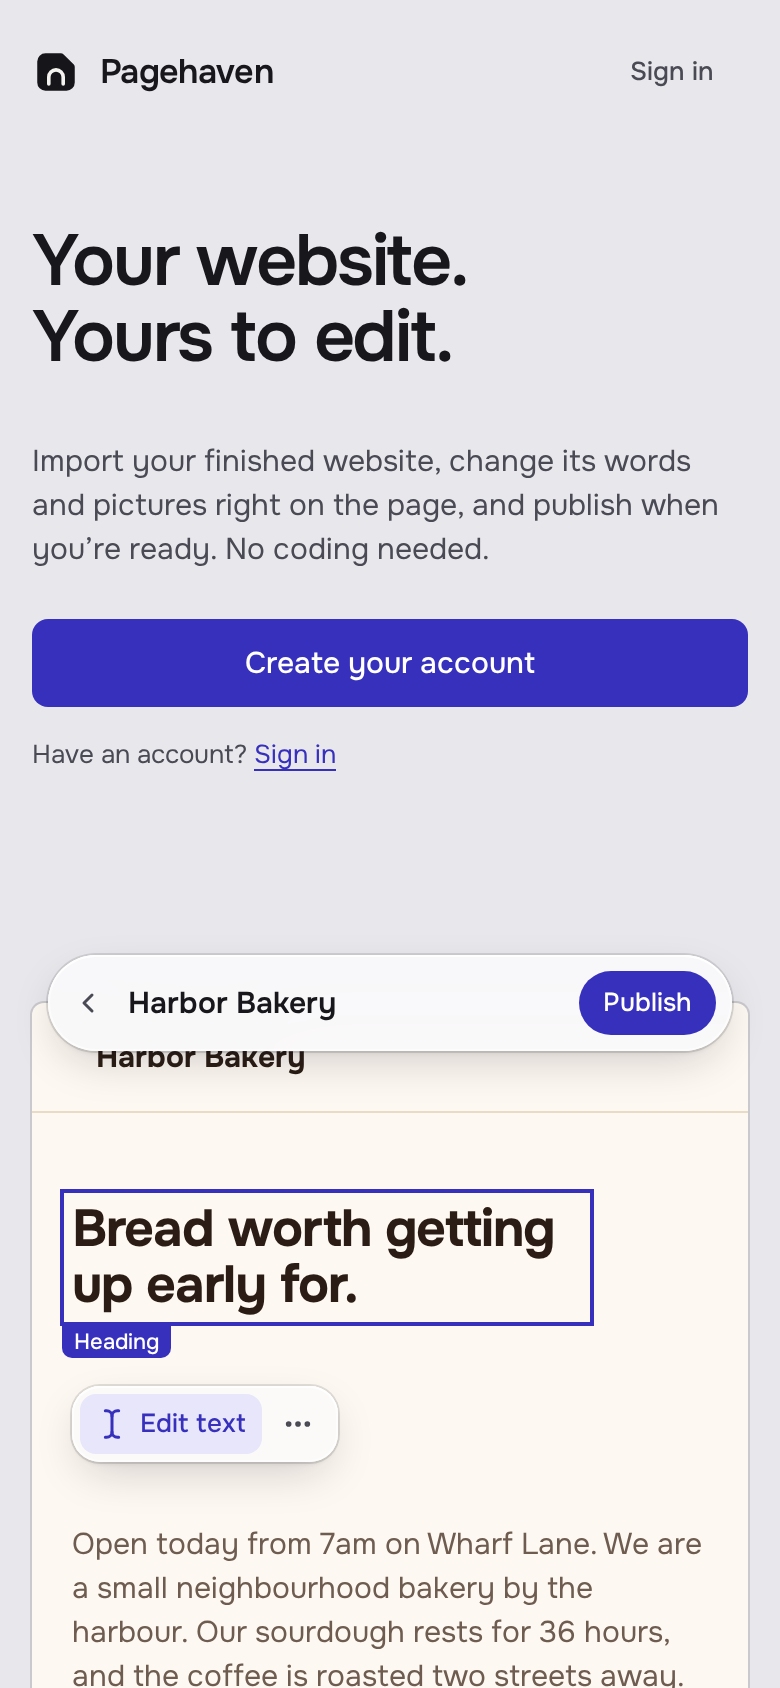
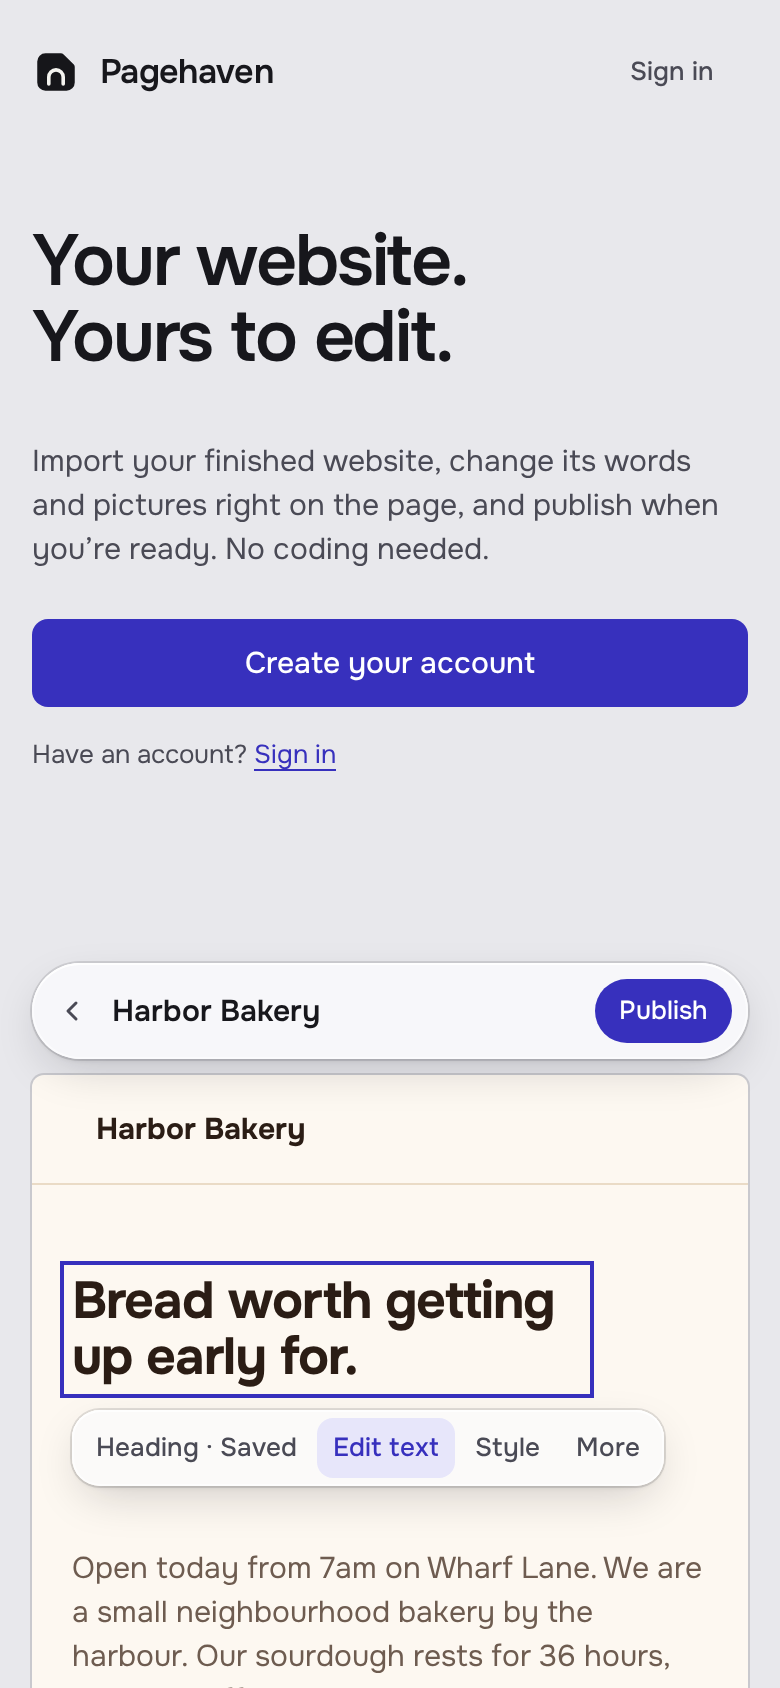
Show the built caption and band in the landing page illustration

Changed region(s): [[0.0308, 0.5545, 0.9846, 1.0]]

diff --git a/assets/static/css/screens.css b/assets/static/css/screens.css
@@ -211,12 +211,13 @@
 .home-cta p { font-size: var(--fs-control); line-height: var(--lh-control); color: var(--ink-2); }
 
 .home-proof { margin: 0; padding: var(--s7) var(--gutter) var(--s8); }
-.proof-sheet { position: relative; max-width: 1040px; margin: 0 auto; text-align: left; padding: 28px 12px 12px; }
+.proof-sheet { position: relative; max-width: 1040px; margin: 0 auto; text-align: left; padding: 64px 12px 12px; }
 .home-proof figcaption { max-width: 66ch; margin: var(--s5) auto 0; font-size: var(--fs-control); line-height: var(--lh-control); color: var(--ink-2); text-align: center; }
-.mock-bar { position: absolute; top: 0; left: 28px; right: 28px; z-index: 2; display: flex; align-items: center; gap: var(--s3); min-height: 48px; padding: 0 var(--s4); }
+.mock-bar { position: absolute; top: 4px; left: 12px; right: 12px; z-index: 2; display: flex; align-items: center; gap: var(--s3); min-height: 48px; padding: 0 var(--s4); }
 .mock-back { display: grid; place-items: center; width: 24px; height: 32px; color: var(--ink-2); }
 .mock-name { font-size: var(--fs-title-3); font-weight: var(--fw-title-3); }
-.mock-page { padding-left: var(--s3); border-left: 1px solid var(--rule-strong); font-size: var(--fs-control); color: var(--ink-2); }
+.mock-page { font-weight: var(--fw-control); color: var(--ink-2); }
+.mock-word { font-size: var(--fs-control); font-weight: var(--fw-control); color: var(--ink); }
 .mock-bar-end { margin-left: auto; display: flex; align-items: center; gap: var(--s3); }
 .mock-url { display: none; }
 .mock-publish { background: var(--primary); color: var(--on-primary); display: inline-flex; align-items: center; height: 32px; padding: 0 var(--s3); border-radius: var(--r-capsule); font-size: var(--fs-control); font-weight: var(--fw-control); }
@@ -230,11 +231,11 @@
 .demo-selected { position: relative; width: fit-content; max-width: 100%; }
 .demo-title { font-size: var(--demo-title); line-height: 1.08; font-weight: 700; letter-spacing: -0.02em; max-width: 15ch; outline: var(--select-stroke) solid var(--select); outline-offset: var(--s1); }
 .demo-title.crop::before { inset: calc(-1 * (var(--crop-gap) + var(--crop-mark) + var(--s1))); }
-.mock-toolbar { position: absolute; left: 0; top: calc(100% + 36px); display: flex; gap: var(--s0); padding: var(--s1); font-family: var(--font-ui); }
-.mock-toolbar span { white-space: nowrap; display: inline-flex; align-items: center; gap: 6px; height: var(--control-h-sm); padding: 0 var(--s2); border-radius: var(--radius-control); font-size: var(--fs-label); font-weight: var(--fw-control); color: var(--ink-2); }
-.mock-toolbar span.is-on { background: var(--select-soft); color: var(--link); }
-.mock-slug { position: absolute; left: calc(-1 * var(--s1) - 1px); top: calc(100% + var(--s1) + 2px); padding: 1px 6px; border-radius: 0 0 var(--radius-chip) var(--radius-chip); background: var(--select-strong); color: var(--overlay-chip-ink); font-family: var(--font-ui); font-size: var(--kind-label-size); line-height: var(--lh-micro); font-weight: var(--fw-micro); }
-.demo-text { margin-top: 104px; max-width: 46ch; font-size: var(--fs-lead); line-height: var(--lh-lead); color: var(--demo-muted); }
+.mock-caption { position: absolute; left: 0; top: calc(100% + 12px); display: flex; gap: var(--s0); padding: var(--s1); font-family: var(--font-ui); }
+.mock-caption span { white-space: nowrap; display: inline-flex; align-items: center; gap: 6px; height: var(--control-h-sm); padding: 0 var(--s2); border-radius: var(--radius-control); font-size: var(--fs-label); font-weight: var(--fw-control); color: var(--ink-2); }
+.mock-caption span.is-on { background: var(--select-soft); color: var(--link); }
+.mock-kind { color: var(--select-strong); font-weight: var(--fw-micro); }
+.demo-text { margin-top: 80px; max-width: 46ch; font-size: var(--fs-lead); line-height: var(--lh-lead); color: var(--demo-muted); }
 .demo-button { display: inline-flex; align-items: center; height: var(--s8); margin-top: var(--s6); padding: 0 var(--s5); border-radius: var(--demo-radius); background: var(--demo-crust); color: var(--overlay-chip-ink); font-size: var(--fs-control); font-weight: 700; }
 
 .home-steps { max-width: var(--page-max); margin: 0 auto; padding: var(--s10) var(--gutter); }
@@ -284,10 +285,10 @@
   .home-hero { padding: var(--s8) var(--gutter); }
   .home-cta .btn { width: 100%; }
   .home-proof { padding: var(--s8) var(--s4) var(--s6); }
-  .proof-sheet { padding: 24px 0 0; }
-  .mock-bar { left: 8px; right: 8px; padding: 0 var(--s2); gap: var(--s2); }
+  .proof-sheet { padding: 60px 0 0; }
+  .mock-bar { left: 0; right: 0; padding: 0 var(--s2); gap: var(--s2); }
   :root { --demo-title: 1.625rem; }
-  .mock-toolbar span:nth-child(2) { display: none; }
+  .mock-word, .mock-caption span:nth-child(4) { display: none; }
   .first-run-sheet { padding: var(--s8) var(--s5); }
   .auth-column { padding: var(--s6); }
   .auth-column h1 { font-size: 2rem; }

diff --git a/assets/views/home.html b/assets/views/home.html
@@ -27,8 +27,9 @@
     <div class="proof-sheet" aria-hidden="true">
       <div class="mock-bar material-float material-capsule">
         <span class="mock-back"><svg class="icon icon-sm" aria-hidden="true"><use href="/static/img/icons.svg#i-chevron-left"/></svg></span>
-        <span class="mock-name">Harbor Bakery</span>
-        <span class="mock-page">Home</span>
+        <span class="mock-name">Harbor Bakery <span class="mock-page">/ Home</span></span>
+        <span class="mock-word">Images</span>
+        <span class="mock-word">Settings</span>
         <span class="mock-bar-end">
           <span class="mock-url"><svg class="icon icon-sm" aria-hidden="true"><use href="/static/img/icons.svg#i-domain"/></svg>harbor-bakery.{{ sites_domain }}</span>
           <span class="pill pill-changes">Changes not published</span>
@@ -41,13 +42,14 @@
             <div class="demo-nav"><b>Harbor Bakery</b><span>Menu</span><span>Our story</span><span>Visit us</span></div>
             <div class="demo-hero">
               <div class="demo-selected">
-                <div class="mock-toolbar material-float">
-                  <span class="is-on"><svg class="icon icon-sm" aria-hidden="true"><use href="/static/img/icons.svg#i-edit-text"/></svg>Edit text</span>
-                  <span><svg class="icon icon-sm" aria-hidden="true"><use href="/static/img/icons.svg#i-text-style"/></svg>Style</span>
-                  <span><svg class="icon icon-sm" aria-hidden="true"><use href="/static/img/icons.svg#i-more"/></svg></span>
-                </div>
                 <p class="demo-title">Bread worth getting up early for.</p>
-                <span class="mock-slug">Heading</span>
+                <div class="mock-caption material-float">
+                  <span class="mock-kind">Heading · Saved</span>
+                  <span class="is-on">Edit text</span>
+                  <span>Style</span>
+                  <span>Link</span>
+                  <span>More</span>
+                </div>
               </div>
               <p class="demo-text">Open today from 7am on Wharf Lane. We are a small neighbourhood bakery by the harbour. Our sourdough rests for 36 hours, and the coffee is roasted two streets away.</p>
               <span class="demo-button">See today's menu</span>
